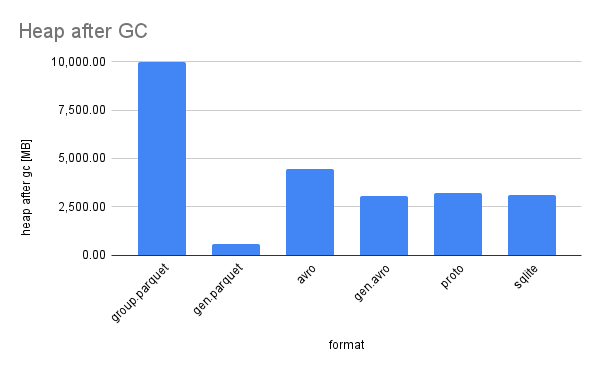
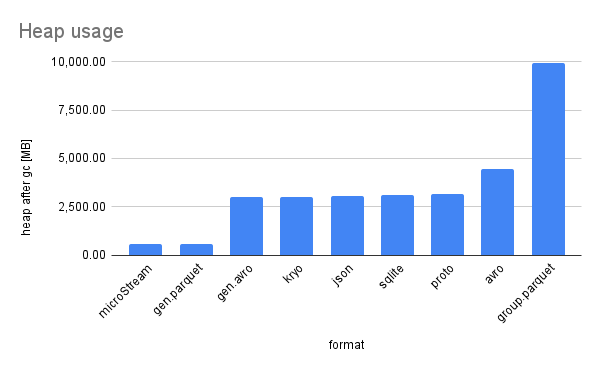
Add more data formats

diff --git a/content/posts/binary-data-format-comparison.md b/content/posts/binary-data-format-comparison.md
@@ -17,6 +17,9 @@ So we analyzed different file formats in terms of size, read/write performance a
 * [Apache Avro](https://avro.apache.org/)
 * [Apache Parquet](https://parquet.apache.org/)
 * [SQLite](https://www.sqlite.org/index.html)
+* JSON with [Yasson](https://github.com/eclipse-ee4j/yasson)
+* [Kryo](https://github.com/EsotericSoftware/kryo)
+* [MicroStream](https://microstream.one/)
 
 The source code for this comparison can be found [on GitHub](https://github.com/qaware/binary-data-format-comparison).
 
@@ -41,6 +44,16 @@ The generated Java classes from Avro can be used as well as the GenericRecord. A
 SQLite is a well-known self-contained SQL database which is supported by many languages, including Java. It can basically be used by any database framework using JDBC. The whole database with all tables is stored in a single file.
 For performance comparison, a database with a single table is used and all data is retrieved with a single select.
 
+### JSON
+JSON is not a binary format and obviously not very efficient in terms of file size, but it is interesting to see how it compares with the other formats. Yasson, which is an implementation of JSON-B, is used here.
+The entities have been written as new-line delimited JSON-stream.
+
+### Kryo
+Kryo is an object graph serialization framework. It can serialize Java objects directly, but thus only supports Java and can not be used in other languages.
+
+### MicroStream
+MicroStream is similar to Kryo. One notable advantage is that it supports immutable data classes (like Lomboks `@Value`). It writes data into a folder consisting of multiple files, while all other formats write into a single file.
+
 
 ## Performance Measurement
 The data format performance was analyzed by generating a random set of data (10.000.000 entries), writing it with each format into a file and reading it back into the heap afterwards.
@@ -61,12 +74,13 @@ The file size per format is as follows:
 {{< /figure >}}
 
 Parquet is significantly smaller than the others. This is, because parquet will store duplicate strings much more efficient by de-duplicating the data. The additional gzip compression thus does not reduce the file size much further. The effect is much less significant when there is not so much duplication.
+JSON is by far the largest one, as expected, but with compression the size is relatively similar to the others.
 
 {{< figure figcaption="Diagram of write time" >}}
 {{< img src="/images/binary-data-format-comparison/write-time.png" alt="Diagram of write time" >}}
 {{< /figure >}}
 
-Looking at the write times, Avro is by far the fastest when not compressing data, but compression takes a lot of extra time for both Avro and Protobuf.
+Looking at the write times, Avro and Kryo are by far the fastest ones when not compressing data, but compression takes a lot of extra time for all formats.
 Compressing the SQLite DB even takes several minutes and is thus not shown in the diagram to keep it readable.
 
 {{< figure figcaption="Diagram of read time" >}}
@@ -75,7 +89,8 @@ Compressing the SQLite DB even takes several minutes and is thus not shown in th
 
 When reading the data back, Parquet is leading again, as long as data is directly mapped to the Avro-generated classes.
 The example group provided by Parquet is very inefficient, both in reading performance and in heap usage.
-The SQLite DB is slower than the others, as was expected, but it is a full database after all and thus provides other advantages, so it is worse considering it, if the performance overhead is acceptable.
+The SQLite DB is slower than the others (except for JSON), as was expected, but it is a full database after all and thus provides other advantages, so it is worse considering it, if the performance overhead is acceptable.
+Reading and parsing JSON takes 2-3 times more time than the other formats, which is also to be expected.
 
 {{< figure figcaption="Diagram of heap usage" >}}
 {{< img src="/images/binary-data-format-comparison/heap.png" alt="Diagram of heap usage" >}}
@@ -90,28 +105,38 @@ The full set of result metrics is shown in the following two tables:
 
 | format       | write time [s] | file size [MB] |
 |--------------|----------------|----------------|
-| parquet      |         15.832 |    276.4046516 |
-| parquet.gzip |         20.191 |     275.317874 |
-| avro         |          3.662 |    741.1535063 |
-| avro.gzip    |         21.466 |    650.8264256 |
-| proto        |         29.689 |    960.6373882 |
-| proto.gzip   |         53.235 |    740.5153246 |
-| sqlite       |         30.952 |     830.546875 |
-| sqlite.gzip  |        463.966 |    669.6497068 |
+| parquet      |         15.326 |     276.395299 |
+| parquet.gzip |         20.151 |      275.26266 |
+| avro         |          4.219 |    735.7714748 |
+| avro.gzip    |         20.776 |    646.4380121 |
+| proto        |         32.301 |    955.0142479 |
+| proto.gzip   |          53.36 |    735.7686195 |
+| sqlite       |         32.296 |    825.0039063 |
+| sqlite.gzip  |        523.713 |      665.55159 |
+| json         |         29.169 |    1948.877819 |
+| json.gzip    |         89.793 |    781.1700859 |
+| kryo         |          4.218 |    692.8155756 |
+| kryo.gzip    |         28.313 |    596.4506216 |
+| microStream  |         17.015 |    962.2537918 |
 
-| format             | class          | read time [s] | heap usage [MB]    |
-|--------------------|----------------|---------------|--------------------|
-| group.parquet      | SimpleGroup    |        15.614 |           9,980.34 |
-| group.parquet.gzip | SimpleGroup    |         14.62 |           9,980.35 |
-| gen.parquet        | SampleDataAvro |         6.526 |             597.24 |
-| gen.parquet.gzip   | SampleDataAvro |         6.574 |             597.24 |
-| avro               | Record         |         8.529 |           4,469.58 |
-| avro.gzip          | Record         |        11.725 |           4,469.56 |
-| gen.avro           | SampleDataAvro |         8.328 |           3,041.01 |
-| gen.avro.gzip      | SampleDataAvro |        12.831 |           3,040.98 |
-| proto              | SampleDataPb   |        10.168 |           3,193.58 |
-| proto.gzip         | SampleDataPb   |         18.65 |           3,193.58 |
-| sqlite             | SampleDataAvro |        27.376 |           3,133.14 |
+| format             | class                 | read time [s] | heap usage [MB] |
+|--------------------|-----------------------|---------------|-----------------|
+| group.parquet      | SimpleGroup           |        15.686 |        9,965.98 |
+| group.parquet.gzip | SimpleGroup           |        14.289 |        9,965.99 |
+| gen.parquet        | SampleDataAvro        |         6.495 |          582.86 |
+| gen.parquet.gzip   | SampleDataAvro        |         6.663 |          582.86 |
+| avro               | Record                |         9.356 |        4,446.56 |
+| avro.gzip          | Record                |        11.819 |        4,446.54 |
+| gen.avro           | SampleDataAvro        |         8.494 |        3,014.56 |
+| gen.avro.gzip      | SampleDataAvro        |         12.11 |        3,014.53 |
+| proto              | SampleDataPb          |         10.57 |        3,167.13 |
+| proto.gzip         | SampleDataPb          |        18.374 |        3,167.13 |
+| sqlite             | SampleDataAvro        |        28.578 |        3,112.41 |
+| json               | SampleDataJson        |        44.899 |        3,073.29 |
+| json.gzip          | SampleDataJson        |         53.56 |        3,073.30 |
+| kryo               | SampleDataKryo        |        10.887 |        3,014.62 |
+| kryo.gzip          | SampleDataKryo        |         7.819 |        3,014.62 |
+| microStream        | SampleDataMicroStream |        15.338 |          576.06 |
 
 
 ## Summary
@@ -120,5 +145,9 @@ The analysis showed some interesting metrics of the different formats.
 Parquet is a very efficient data format, but comes with a lot of dependencies and thus extra complexity. It is also less common and available tools are sparse.
 Avro and Protobuf are very similar, but Avro has more features in terms of writing multiple rows and overall showed better performance when working with larger data sets.
 SQLite, given it is a full SQL database, compares pretty well against the other optimized binary data formats. If you consider reading only parts of the data, consider using such a database to get more flexibility.
+Kryo is very efficient and especially useful if data is only accessed by a single Java application. The main downside is the absence of a language-independent data schema.
+MicroStream is similar to Kryo, but significantly slower. On the other hand, it can even (de-)serialize immutable classes.
 
-Note that all the metrics depend a lot on the actual data, so if you want to find the best data format for your use case, clone the GitHub project and run the benchmark with your own data format.
+There is no perfect data format. It always depends on your use-case, but the comparison should help to point you to the right direction for your individual use-case.
+
+Note that all the metrics depend a lot on the actual data, so if you want to find the best data format for your use case, clone the GitHub project and run the benchmark with your own data model.
